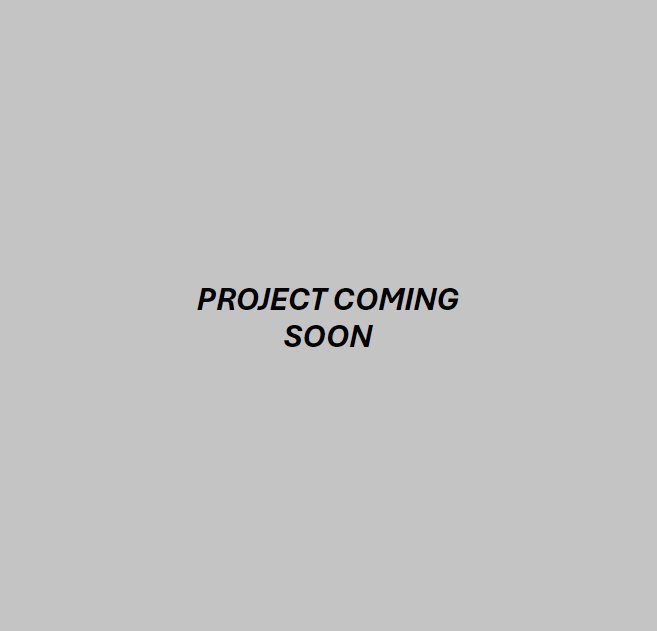
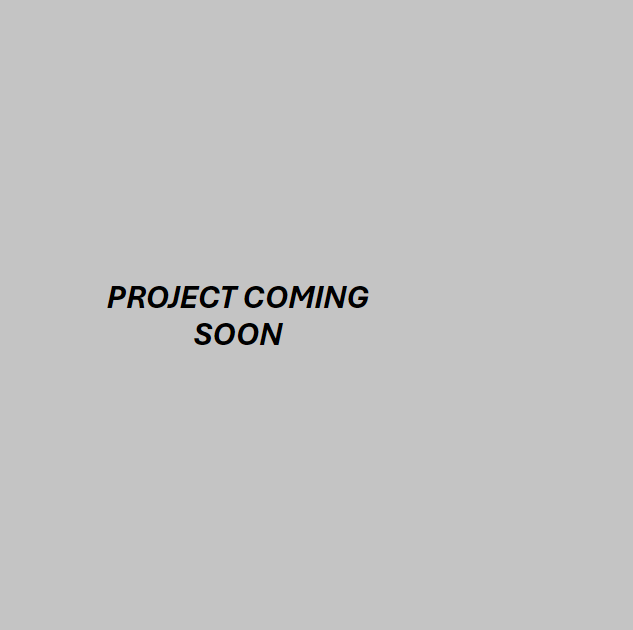
centered the flex items in the flex container in the style.css file

Changed region(s): [[0.1501, 0.4524, 0.7204, 0.573]]

diff --git a/Assets/css/style.css b/Assets/css/style.css
@@ -64,6 +64,9 @@ color: var(--tertiary-color);
 #work{
     display: flex;
     flex-wrap: wrap;
+    flex-wrap: wrap;
+    justify-content: center;
+    align-items: center;
     border: 5px solid var(--secondary-color);
     background-color: var(--main-color);
     margin-top: 10px;
@@ -75,13 +78,13 @@ color: var(--tertiary-color);
     border: 1px solid var(--secondary-color);
     background-color: var(--main-color);
     flex: 0 0 70%;
-    overflow:hidden;
-    height: 700px;
+    overflow: hidden;
 }
 .other-projects{
     border: 1px solid var(--secondary-color);
     background-color: var(--main-color);
     flex: 0 0 30%;
+    overflow: hidden;
 }
 
 #contact-me{
@@ -110,7 +113,7 @@ font-weight: bold;
 }
 
 @media screen and (max-width: 790px){
-#header-main, #work{
+#header-main, #work, #project-1{
     flex-direction: column;
 }
 }
